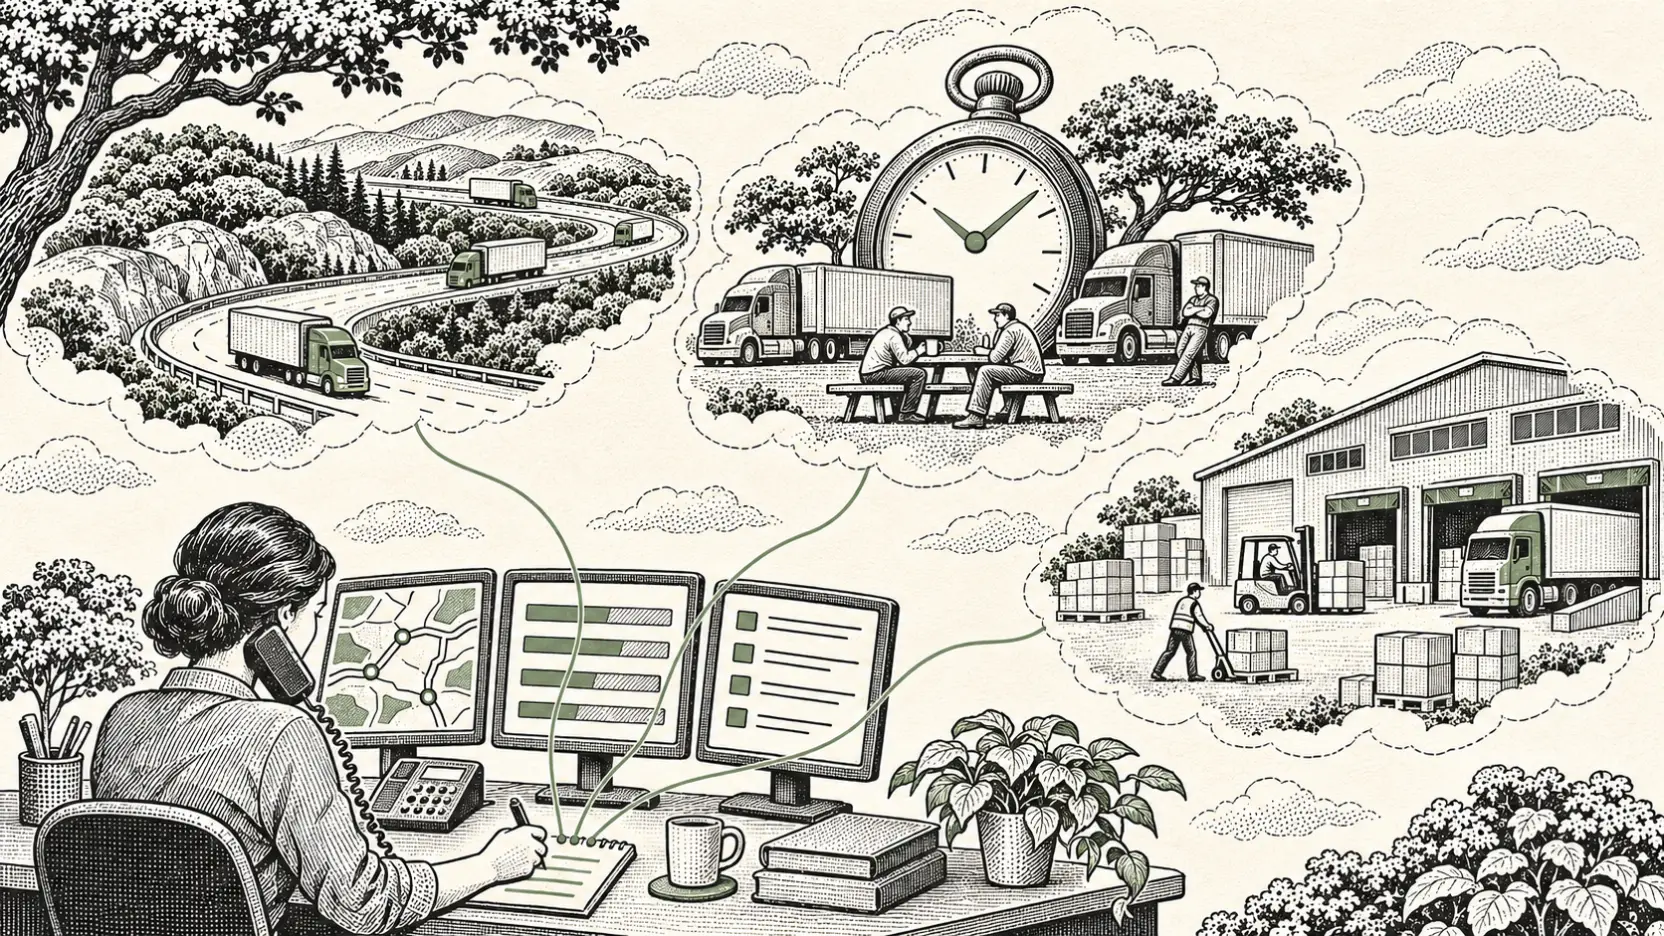
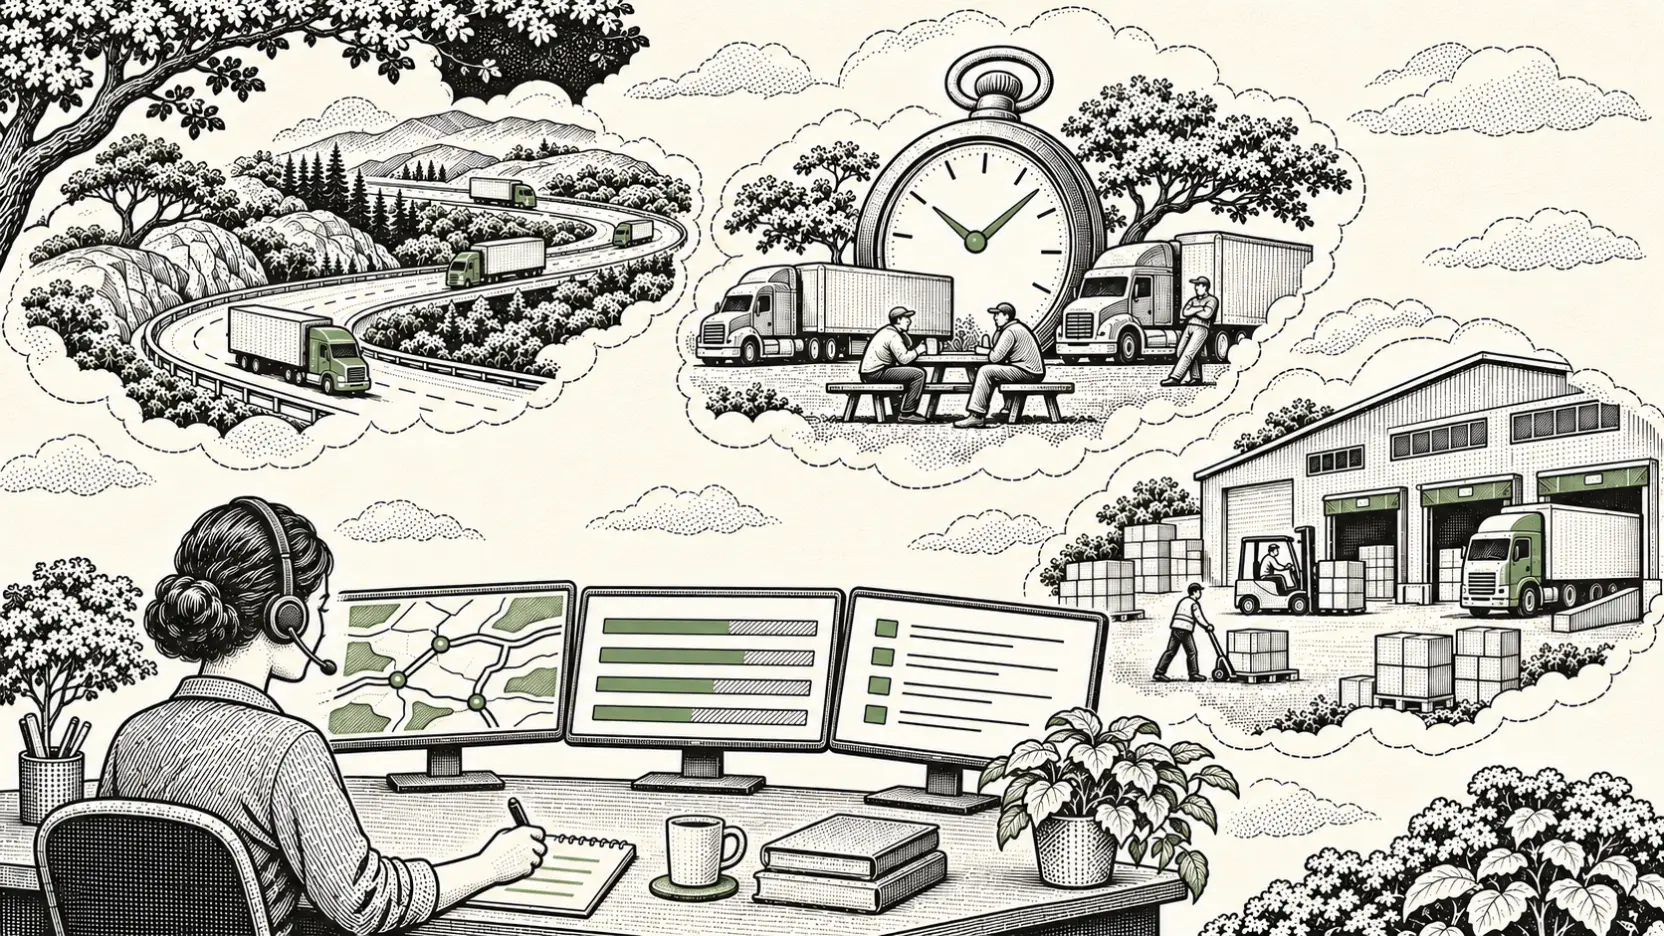
Writing: Lesson 1's hero and scene, second review round
- hero: the compass was too large, cramped in the corner, with a tip
  like a claw. Now a slim one about a quarter of the frame's height,
  upper left of center on the arc it draws, a plain pencil lead
- scene: no lines from the notepad to the three worlds, three 16:9
  monitors, and a headset in place of the phone and its cord; the alt
  says so

Palette check passes on all three, shots clean at 390, 768, and 1440,
resting and states at the same counts. Page pictures 786 KB.

diff --git a/writing/what-changes-when-you-design-the-task-instead-of-the-app.html b/writing/what-changes-when-you-design-the-task-instead-of-the-app.html
@@ -275,7 +275,7 @@
           <h1 class="case-title">What changes when you design the task instead of the app?</h1>
           <p class="build-dek">The unit of design moves from one application&rsquo;s screens to the whole job a person is trying to finish, with agents carrying the steps between tools. The design work becomes deciding what the agent gathers, what it shows, and where the person decides.</p>
           </div>
-          <img class="shift-hero-art" src="../img/writing/shift/narrative-ink/chapter-1/chapter1-lesson1-hero.webp?v=2" width="1600" height="900" alt="" decoding="async" />
+          <img class="shift-hero-art" src="../img/writing/shift/narrative-ink/chapter-1/chapter1-lesson1-hero.webp?v=3" width="1600" height="900" alt="" decoding="async" />
         </div>
         <aside class="shift-terms" aria-labelledby="shift-terms-label">
           <p class="shift-terms-label" id="shift-terms-label">Three terms first</p>
@@ -294,7 +294,7 @@
           <h2 id="nobody-does-their-job-in-one-app">Nobody does their job in one app, so designing one app misses the job</h2>
           <p>A dispatcher assigning a load checks where each truck is, how many driving hours each driver has left, and what the customer was promised. <mark>Those answers usually live in different tools.</mark></p>
           <figure class="writing-scene">
-            <img src="../img/writing/shift/narrative-ink/chapter-1/chapter1-lesson1-dispatcher.webp?v=2" width="1664" height="936" loading="lazy" decoding="async" alt="An engraved drawing of a dispatcher at three monitors, a phone on her shoulder, writing on a notepad. Threads from a highway, a clock, and a warehouse meet only at her pen." />
+            <img src="../img/writing/shift/narrative-ink/chapter-1/chapter1-lesson1-dispatcher.webp?v=3" width="1664" height="936" loading="lazy" decoding="async" alt="An engraved drawing of a dispatcher in a headset at three monitors, writing on a notepad. Above her float three separate scenes: trucks on a highway, drivers resting by a large clock, and a warehouse." />
             <figcaption>The dispatcher is the only thing joining the three screens.</figcaption>
           </figure>
           <p>Designing each tool well still leaves the person carrying the job between them: copying, comparing, and remembering. That carrying is <mark>the part of the work nobody owns</mark>.</p>

diff --git a/writing/SHIFT_CH1_PILOT.md b/writing/SHIFT_CH1_PILOT.md
@@ -7,18 +7,18 @@ yet. Nothing in the lesson points at a path under
 
 **Status, 2026-11-14: installed, then redrawn once on review.** The bundle's
 installer ran dry, then applied, on this branch. The owner reviewed the three
-on the page and asked for changes, and all three were regenerated in ChatGPT
+on the page twice and asked for changes, and all three were regenerated in ChatGPT
 from the bundle's hero as the style reference. The bundle's originals are in
 this branch's history at fd5a55fc.
 
 | Picture | Review note | Now |
 | --- | --- | --- |
-| `chapter1-lesson1-hero.webp` | Compass dead center and upright; the middle empty | 1600x900. The compass is tilted, planted in the left hillside, and drawing a sage arc that people walk along from the app screens to the task spiral, over a faint circular grid. No robot. |
-| `chapter1-lesson1-dispatcher.webp` | Same symmetry as the hero; the sun and paths out of the monitor read as odd; no clear step on from the hero | 1664x936, a new picture. The dispatcher sits lower left, phone on her shoulder, writing on a notepad; a highway, a clock with resting drivers, and a warehouse float apart, joined only by three threads to her pen. Sharp at 2x in the 832 px slot. |
+| `chapter1-lesson1-hero.webp` | Round one: compass dead center and upright, the middle empty. Round two: the redrawn compass too large, cramped in the corner, its tip like a claw | 1600x900. A slim compass about a quarter of the frame's height stands upper left of center on the sage arc it is drawing, a plain pencil lead on one leg, open paper around it. People walk the arc from the app screens to the task spiral, over a faint circular grid. No robot. |
+| `chapter1-lesson1-dispatcher.webp` | Round one: same symmetry as the hero, the sun and paths out of the monitor read as odd. Round two: no lines from the notepad, widescreen monitors, a headset instead of a phone | 1664x936, a new picture. The dispatcher sits lower left in a headset at three 16:9 monitors, writing on a notepad; a highway, a clock with resting drivers, and a warehouse float apart above her, joined by nothing but her. Sharp at 2x in the 832 px slot. |
 | `chapter1-lesson1-human-decision.webp` | Good, but she had a third arm at her chin | 960x640, drawn at 3:2. The hand at her chin is gone; nothing else changed. |
 
 All three pass the palette check, and `narrative-ink.mjs shots` is clean at
-390, 768, and 1440. Page picture weight: 222 KB before the pilot, 826 KB now,
+390, 768, and 1440. Page picture weight: 222 KB before the pilot, 786 KB now,
 at WebP quality 0.7.
 
 **Open, for review:**

diff --git a/writing/NARRATIVE_INK_MANIFEST.md b/writing/NARRATIVE_INK_MANIFEST.md
@@ -34,8 +34,8 @@ is. Only the drawings in the rows below change.
 
 | Picture | Slot | Now | Level and export | Status | Alt |
 | --- | --- | --- | --- | --- | --- |
-| `chapter1-lesson1-hero.webp` | shift-hero-art | 1600x900, 312 KB | A panorama: 1600x900 (16:9), paper knocked out to alpha | narrative-ink | `""`<br>*empty: the title beside it says what the lesson is* |
-| `chapter1-lesson1-dispatcher.webp` | writing-scene | 1664x936, 349 KB | A panorama: 1920x1080 (16:9), on paper | narrative-ink | An engraved drawing of a dispatcher at three monitors, a phone on her shoulder, writing on a notepad. Threads from a highway, a clock, and a warehouse meet only at her pen.<br>*required: who, doing what, and the detail the caption points at* |
+| `chapter1-lesson1-hero.webp` | shift-hero-art | 1600x900, 293 KB | A panorama: 1600x900 (16:9), paper knocked out to alpha | narrative-ink | `""`<br>*empty: the title beside it says what the lesson is* |
+| `chapter1-lesson1-dispatcher.webp` | writing-scene | 1664x936, 328 KB | A panorama: 1920x1080 (16:9), on paper | narrative-ink | An engraved drawing of a dispatcher in a headset at three monitors, writing on a notepad. Above her float three separate scenes: trucks on a highway, drivers resting by a large clock, and a warehouse.<br>*required: who, doing what, and the detail the caption points at* |
 | `chapter1-lesson1-human-decision.webp` | shift-concept-art | 960x640, 165 KB | B supporting: 1200x800 (3:2), on paper | narrative-ink | An illustrated agent gathers route, time, and warehouse evidence for a dispatcher, who can approve or decline.<br>*required: the object and the state that carries the idea* |
 
 ## Lesson 2, chapter 1: what-is-ux-for-when-agents-build-the-software.html
